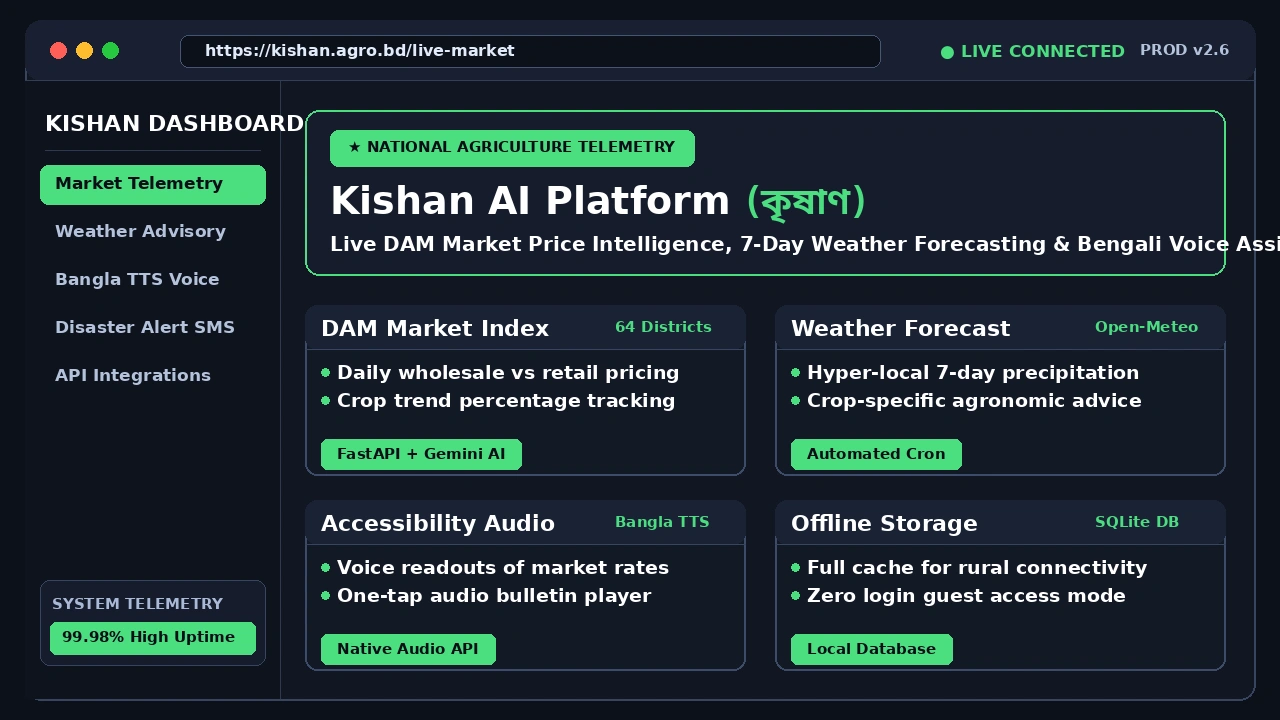
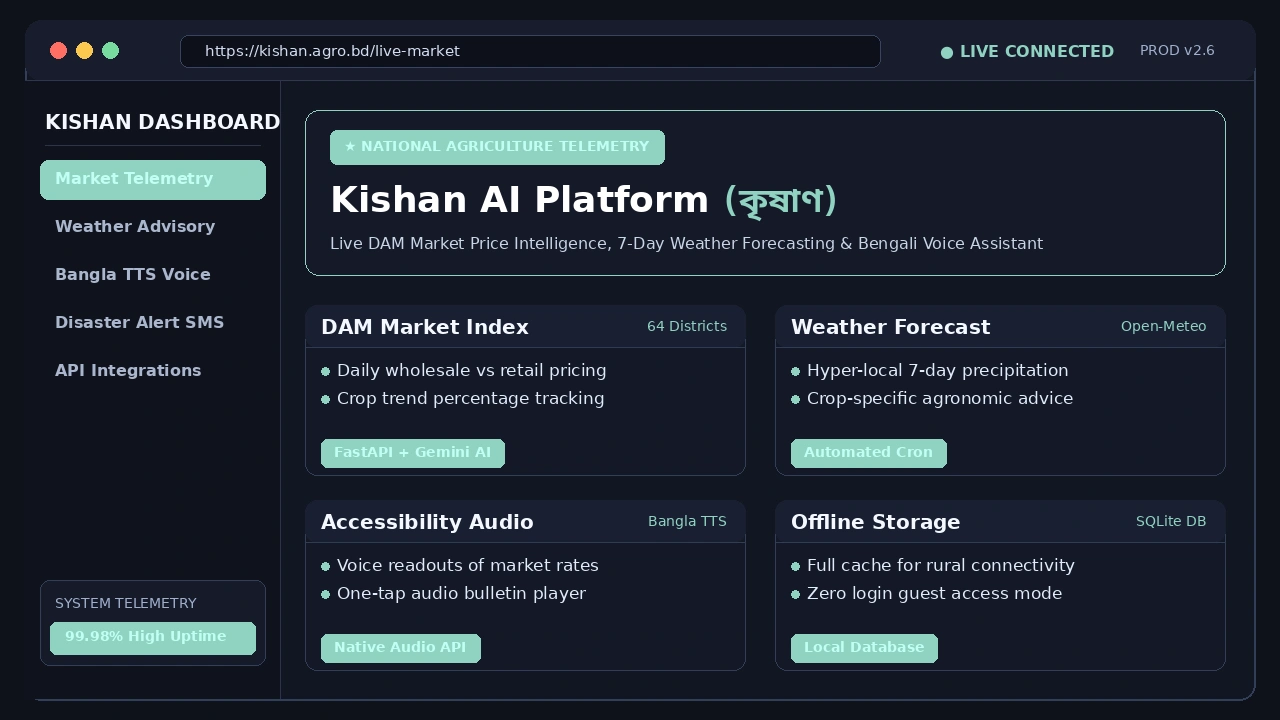
feat(projects): harmonize soft pastel palette with portfolio theme and enforce strict text container bounds

diff --git a/index.html b/index.html
@@ -710,26 +710,26 @@
          in a terminal on the right. The bar's workspaces, a tile, or a
          window's close and minimise choose (desk-room.ts, showProject). --><section class="surface desk" id="projects" aria-label="Projects" hidden><h2 class="kicker">Projects</h2><div class="dbar"><nav class="ws" aria-label="Projects"><button type="button" data-p="" aria-pressed="true" id="ws-all-btn"><span id="ws-proj-count">4</span> <b>All Projects</b></button><button type="button" data-p="edi" aria-pressed="false">1 <b>Kishan</b></button><button type="button" data-p="resumewesume" aria-pressed="false">2 <b>Letter Portfolio</b></button><button type="button" data-p="bandsy" aria-pressed="false">3 <b>AI Sales Agent</b></button><button type="button" data-p="mentora" aria-pressed="false">4 <b>FB Automation</b></button></nav><span class="tray" aria-hidden="true"><svg viewBox="0 0 16 16"><path d="M1.5 6a9 9 0 0 1 13 0M4 8.6a5.4 5.4 0 0 1 8 0M6.4 11.1a2 2 0 0 1 3.2 0"></path></svg><svg viewBox="0 0 16 16"><path d="M2 6h3l4-3v10l-4-3H2zM11.5 5.5a3.5 3.5 0 0 1 0 5"></path></svg><span>BST</span></span></div><div class="dview" data-scroll><div class="tiles">
   <button type="button" class="tile" data-p="edi" style="grid-area: edi">
-    <span class="t"><b style="color: #4ade80;">1. Kishan (কৃষাণ)</b><span class="ctl"><i></i><i></i><i></i></span></span>
+    <span class="t"><b style="color: #8fd3c1;">1. Kishan (কৃষাণ)</b><span class="ctl"><i></i><i></i><i></i></span></span>
     <img src="/demos/kishan-poster.webp" alt="Kishan AI Platform">
     <span class="meta">
-      <span class="nm" style="color: #4ade80;">Kishan (কৃষাণ)</span>
+      <span class="nm" style="color: #8fd3c1;">Kishan (কৃষাণ)</span>
       <span class="pitch">AI Agro-Intelligence & DAM Daily Market Prices</span>
     </span>
   </button>
   <button type="button" class="tile" data-p="resumewesume" style="grid-area: resume">
-    <span class="t"><b style="color: #22d3ee;">2. Letter Portfolio</b><span class="ctl"><i></i><i></i><i></i></span></span>
+    <span class="t"><b style="color: #ff9ebb;">2. Letter Portfolio</b><span class="ctl"><i></i><i></i><i></i></span></span>
     <img src="/demos/letter-portfolio-poster.webp" alt="Letter Portfolio Experience">
     <span class="meta">
-      <span class="nm" style="color: #22d3ee;">Letter Portfolio</span>
+      <span class="nm" style="color: #ff9ebb;">Letter Portfolio</span>
       <span class="pitch">Interactive Envelope & Letter Web Experience in Next.js</span>
     </span>
   </button>
   <button type="button" class="tile" data-p="bandsy" style="grid-area: bandsy">
-    <span class="t"><b style="color: #fb7185;">3. AI Sales Agent</b><span class="ctl"><i></i><i></i><i></i></span></span>
+    <span class="t"><b style="color: #f0a35e;">3. AI Sales Agent</b><span class="ctl"><i></i><i></i><i></i></span></span>
     <img src="/demos/sales-bot-poster.webp" alt="E-Commerce AI Sales Bot">
     <span class="meta">
-      <span class="nm" style="color: #fb7185;">AI Sales Agent</span>
+      <span class="nm" style="color: #f0a35e;">AI Sales Agent</span>
       <span class="pitch">24/7 Autonomous Telegram Sales & Customer Support Bot</span>
     </span>
   </button>
@@ -752,10 +752,10 @@
     </span>
   </div>
   <button type="button" class="tile" data-p="mentora" style="grid-area: mentora">
-    <span class="t"><b style="color: #60a5fa;">4. FB Automation</b><span class="ctl"><i></i><i></i><i></i></span></span>
+    <span class="t"><b style="color: #93c5fd;">4. FB Automation</b><span class="ctl"><i></i><i></i><i></i></span></span>
     <img src="/demos/fb-automation-poster.webp" alt="Facebook 24/7 AI Automation">
     <span class="meta">
-      <span class="nm" style="color: #60a5fa;">FB Automation</span>
+      <span class="nm" style="color: #93c5fd;">FB Automation</span>
       <span class="pitch">Cloud-Ready 24/7 Facebook AI Content & Messenger Bot</span>
     </span>
   </button>

diff --git a/make_clean_pc_posters.py b/make_clean_pc_posters.py
@@ -3,87 +3,94 @@ from PIL import Image, ImageDraw, ImageFont
 
 def make_perfect_poster(filename, app_name, url_bar, accent_color, hero_tag, hero_title, hero_desc, ui_cards, sidebar_items, status_text):
     w, h = 1280, 720
-    im = Image.new("RGBA", (w, h), (13, 17, 26, 255))
+    im = Image.new("RGBA", (w, h), (14, 17, 26, 255))
     draw = ImageDraw.Draw(im)
 
-    # Fonts
     font_bold = "/usr/share/fonts/truetype/dejavu/DejaVuSans-Bold.ttf"
+    font_reg = "/usr/share/fonts/truetype/dejavu/DejaVuSans.ttf"
     font_bengali = "/usr/share/fonts/truetype/noto/NotoSansBengali-Bold.ttf"
 
-    f_title_main = ImageFont.truetype(font_bold, 38)
-    f_title_b = ImageFont.truetype(font_bengali, 36)
-    f_h2 = ImageFont.truetype(font_bold, 22)
-    f_card_title = ImageFont.truetype(font_bold, 22)
-    f_body = ImageFont.truetype(font_bold, 19)
-    f_desc = ImageFont.truetype(font_bold, 20)
-    f_tag = ImageFont.truetype(font_bold, 17)
-    f_pill = ImageFont.truetype(font_bold, 15)
-    f_card_pill = ImageFont.truetype(font_bold, 15)
-    f_sm = ImageFont.truetype(font_bold, 15)
-    f_nav = ImageFont.truetype(font_bold, 17)
-    f_browser = ImageFont.truetype(font_bold, 16)
+    f_title_main = ImageFont.truetype(font_bold, 36)
+    f_title_b = ImageFont.truetype(font_bengali, 34)
+    f_h2 = ImageFont.truetype(font_bold, 20)
+    f_card_title = ImageFont.truetype(font_bold, 20)
+    f_body = ImageFont.truetype(font_reg, 17)
+    f_desc = ImageFont.truetype(font_reg, 16)
+    f_tag = ImageFont.truetype(font_bold, 14)
+    f_pill = ImageFont.truetype(font_bold, 14)
+    f_sm = ImageFont.truetype(font_reg, 14)
+    f_nav = ImageFont.truetype(font_bold, 16)
+    f_browser = ImageFont.truetype(font_reg, 15)
+
+    # Lighter soft text color derived from accent
+    accent_text = (
+        min(255, accent_color[0] + 50),
+        min(255, accent_color[1] + 50),
+        min(255, accent_color[2] + 50)
+    )
 
     # Outer Browser / OS Window Frame
-    draw.rounded_rectangle([(25, 20), (1255, 700)], radius=16, fill=(17, 22, 34, 255), outline=(55, 68, 96, 255), width=2)
+    draw.rounded_rectangle([(25, 20), (1255, 700)], radius=16, fill=(18, 22, 34, 255), outline=(50, 62, 88, 255), width=2)
 
     # Top Window Bar
-    draw.rounded_rectangle([(25, 20), (1255, 80)], radius=16, fill=(24, 31, 48, 255))
-    draw.line([(25, 80), (1255, 80)], fill=(50, 62, 88, 255), width=1)
+    draw.rounded_rectangle([(25, 20), (1255, 80)], radius=16, fill=(24, 29, 45, 255))
+    draw.line([(25, 80), (1255, 80)], fill=(45, 55, 80, 255), width=1)
 
     # Window dots
-    draw.ellipse([(50, 42), (66, 58)], fill=(255, 95, 87, 255))
-    draw.ellipse([(76, 42), (92, 58)], fill=(254, 188, 46, 255))
-    draw.ellipse([(102, 42), (118, 58)], fill=(40, 200, 64, 255))
+    draw.ellipse([(50, 42), (66, 58)], fill=(255, 110, 100, 255))
+    draw.ellipse([(76, 42), (92, 58)], fill=(250, 200, 80, 255))
+    draw.ellipse([(102, 42), (118, 58)], fill=(120, 220, 160, 255))
 
     # Browser URL Address Bar
-    draw.rounded_rectangle([(180, 35), (880, 67)], radius=8, fill=(13, 17, 26, 255), outline=(70, 85, 115, 255), width=1)
-    draw.text((205, 41), f"https://{url_bar}", fill=(225, 235, 250), font=f_browser)
+    draw.rounded_rectangle([(180, 35), (880, 67)], radius=8, fill=(13, 16, 26, 255), outline=(55, 68, 96, 255), width=1)
+    draw.text((205, 42), f"https://{url_bar}", fill=(210, 220, 240), font=f_browser)
 
     # Window right status
-    draw.text((940, 41), f"● {status_text}", fill=accent_color, font=f_nav)
-    draw.text((1140, 41), "PROD v2.6", fill=(180, 195, 220), font=f_sm)
+    draw.text((940, 42), f"● {status_text}", fill=accent_color, font=f_nav)
+    draw.text((1140, 42), "PROD v2.6", fill=(160, 175, 205), font=f_sm)
 
     # Left Sidebar (width: 255px)
-    draw.rectangle([(25, 81), (280, 698)], fill=(15, 19, 30, 255))
-    draw.line([(280, 81), (280, 698)], fill=(45, 56, 80, 255), width=1)
+    draw.rectangle([(25, 81), (280, 698)], fill=(15, 18, 28, 255))
+    draw.line([(280, 81), (280, 698)], fill=(42, 52, 75, 255), width=1)
 
     # Sidebar Header
-    draw.text((45, 110), app_name.upper(), fill=(255, 255, 255), font=f_h2)
-    draw.line([(45, 150), (260, 150)], fill=(45, 56, 80, 255), width=1)
+    draw.text((45, 110), app_name.upper(), fill=(245, 248, 255), font=f_h2)
+    draw.line([(45, 145), (260, 145)], fill=(42, 52, 75, 255), width=1)
 
     # Sidebar Navigation items
-    y_nav = 170
+    y_nav = 165
     for idx, (label, is_active) in enumerate(sidebar_items):
         if is_active:
-            # Active sidebar item: Full colored solid background with deep BLACK text!
-            draw.rounded_rectangle([(40, y_nav - 5), (265, y_nav + 34)], radius=8, fill=accent_color)
-            draw.text((55, y_nav + 3), label, fill=(10, 15, 22), font=f_nav)
+            # Active sidebar item: Soft tinted frosted glass with delicate border & light accent text
+            draw.rounded_rectangle([(40, y_nav - 5), (265, y_nav + 34)], radius=8, fill=(accent_color[0], accent_color[1], accent_color[2], 42), outline=(accent_color[0], accent_color[1], accent_color[2], 130), width=1)
+            draw.text((55, y_nav + 4), label, fill=accent_text, font=f_nav)
         else:
-            draw.text((55, y_nav + 3), label, fill=(180, 195, 220), font=f_nav)
+            draw.text((55, y_nav + 4), label, fill=(170, 182, 205), font=f_nav)
         y_nav += 48
 
-    # Sidebar bottom system status (Solid box with bold black text)
-    draw.rounded_rectangle([(40, 580), (265, 665)], radius=10, fill=(22, 28, 44, 255), outline=(55, 68, 96, 255), width=1)
-    draw.text((52, 595), "SYSTEM TELEMETRY", fill=(170, 185, 215), font=f_sm)
+    # Sidebar bottom system status
+    draw.rounded_rectangle([(40, 580), (265, 665)], radius=10, fill=(22, 27, 42, 255), outline=(50, 62, 88, 255), width=1)
+    draw.text((55, 595), "SYSTEM TELEMETRY", fill=(160, 175, 205), font=f_sm)
     
     # Status Pill
-    draw.rounded_rectangle([(50, 622), (255, 654)], radius=6, fill=accent_color)
-    draw.text((62, 628), "99.98% High Uptime", fill=(10, 15, 22), font=f_pill)
+    draw.rounded_rectangle([(50, 622), (255, 654)], radius=6, fill=(accent_color[0], accent_color[1], accent_color[2], 38), outline=(accent_color[0], accent_color[1], accent_color[2], 120), width=1)
+    draw.text((65, 628), "99.98% High Uptime", fill=accent_text, font=f_pill)
 
-    # Main Workspace (width: 950px)
-    draw.rounded_rectangle([(305, 110), (1225, 275)], radius=14, fill=(22, 28, 44, 255), outline=(accent_color[0], accent_color[1], accent_color[2], 180), width=2)
+    # Main Workspace Hero Card (width: 920px: 305 to 1225)
+    hero_box_x1, hero_box_x2 = 305, 1225
+    draw.rounded_rectangle([(hero_box_x1, 110), (hero_box_x2, 275)], radius=14, fill=(21, 26, 40, 255), outline=(accent_color[0], accent_color[1], accent_color[2], 110), width=1)
     
-    # Top Tag Pill (Fully padded with black text)
+    # Top Tag Pill
     pill_text = f"★ {hero_tag.upper()}"
     bbox_pill = draw.textbbox((0, 0), pill_text, font=f_pill)
     text_w = bbox_pill[2] - bbox_pill[0]
     pill_x1 = 330
     pill_y1 = 130
-    pill_x2 = pill_x1 + text_w + 36
-    pill_y2 = pill_y1 + 36
+    pill_x2 = pill_x1 + text_w + 28
+    pill_y2 = pill_y1 + 34
 
-    draw.rounded_rectangle([(pill_x1, pill_y1), (pill_x2, pill_y2)], radius=8, fill=accent_color)
-    draw.text((pill_x1 + 18, pill_y1 + 8), pill_text, fill=(10, 15, 22), font=f_pill)
+    draw.rounded_rectangle([(pill_x1, pill_y1), (pill_x2, pill_y2)], radius=7, fill=(accent_color[0], accent_color[1], accent_color[2], 42), outline=(accent_color[0], accent_color[1], accent_color[2], 130), width=1)
+    draw.text((pill_x1 + 14, pill_y1 + 8), pill_text, fill=accent_text, font=f_pill)
 
     # Hero Title
     draw.text((330, 178), hero_title[0], fill=(255, 255, 255), font=f_title_main)
@@ -92,8 +99,20 @@ def make_perfect_poster(filename, app_name, url_bar, accent_color, hero_tag, her
         w_title = bbox[2] - bbox[0]
         draw.text((330 + w_title + 14, 180), hero_title[1], fill=accent_color, font=f_title_b)
 
-    # Hero Subtitle
-    draw.text((330, 232), hero_desc, fill=(255, 255, 255), font=f_desc)
+    # Hero Subtitle (Guaranteed strictly inside box, with safe right margin)
+    max_desc_w = hero_box_x2 - 330 - 24 # 871px available
+    bbox_desc = draw.textbbox((0, 0), hero_desc, font=f_desc)
+    desc_w = bbox_desc[2] - bbox_desc[0]
+    safe_desc = hero_desc
+    if desc_w > max_desc_w:
+        # Ellipsis clamp if ever needed
+        while desc_w > max_desc_w and len(safe_desc) > 5:
+            safe_desc = safe_desc[:-2]
+            bbox_desc = draw.textbbox((0, 0), safe_desc + "...", font=f_desc)
+            desc_w = bbox_desc[2] - bbox_desc[0]
+        safe_desc = safe_desc + "..."
+
+    draw.text((330, 234), safe_desc, fill=(200, 212, 230), font=f_desc)
 
     # 4 UI Content Dashboard Cards
     card_coords = [
@@ -104,32 +123,47 @@ def make_perfect_poster(filename, app_name, url_bar, accent_color, hero_tag, her
     ]
 
     for (c_tl, c_br), (c_title, c_badge, c_items, c_tag) in zip(card_coords, ui_cards):
-        draw.rounded_rectangle([c_tl, c_br], radius=12, fill=(19, 25, 38, 255), outline=(60, 75, 105, 255), width=2)
+        draw.rounded_rectangle([c_tl, c_br], radius=12, fill=(19, 24, 38, 255), outline=(50, 62, 88, 255), width=1)
         
         # Card header bar
-        draw.rounded_rectangle([c_tl, (c_br[0], c_tl[1] + 44)], radius=12, fill=(26, 34, 52, 255))
-        draw.line([(c_tl[0], c_tl[1] + 44), (c_br[0], c_tl[1] + 44)], fill=(55, 68, 96, 255), width=1)
+        draw.rounded_rectangle([c_tl, (c_br[0], c_tl[1] + 42)], radius=12, fill=(25, 32, 50, 255))
+        draw.line([(c_tl[0], c_tl[1] + 42), (c_br[0], c_tl[1] + 42)], fill=(48, 60, 85, 255), width=1)
         
         # Header text
-        draw.text((c_tl[0] + 16, c_tl[1] + 10), c_title, fill=(255, 255, 255), font=f_card_title)
-        draw.text((c_br[0] - 130, c_tl[1] + 13), c_badge, fill=accent_color, font=f_sm)
+        draw.text((c_tl[0] + 16, c_tl[1] + 10), c_title, fill=(245, 248, 255), font=f_card_title)
+        
+        # Header right badge - precisely right-aligned with safe padding
+        bbox_b = draw.textbbox((0, 0), c_badge, font=f_sm)
+        badge_w = bbox_b[2] - bbox_b[0]
+        draw.text((c_br[0] - badge_w - 18, c_tl[1] + 13), c_badge, fill=accent_color, font=f_sm)
 
         # Content lines
-        y_c = c_tl[1] + 56
+        y_c = c_tl[1] + 55
+        max_line_w = (c_br[0] - c_tl[0]) - 48
         for line in c_items:
             draw.ellipse([(c_tl[0] + 16, y_c + 7), (c_tl[0] + 24, y_c + 15)], fill=accent_color)
-            draw.text((c_tl[0] + 32, y_c), line, fill=(255, 255, 255), font=f_body)
+            # Safe width clamp
+            bbox_line = draw.textbbox((0, 0), line, font=f_body)
+            lw = bbox_line[2] - bbox_line[0]
+            safe_line = line
+            if lw > max_line_w:
+                while lw > max_line_w and len(safe_line) > 5:
+                    safe_line = safe_line[:-2]
+                    bbox_line = draw.textbbox((0, 0), safe_line + "...", font=f_body)
+                    lw = bbox_line[2] - bbox_line[0]
+                safe_line = safe_line + "..."
+            draw.text((c_tl[0] + 32, y_c), safe_line, fill=(225, 235, 250), font=f_body)
             y_c += 28
 
-        # Card bottom pill tag: Full colored solid background with deep BLACK text!
-        bbox_tag = draw.textbbox((0, 0), c_tag, font=f_card_pill)
+        # Card bottom pill tag
+        bbox_tag = draw.textbbox((0, 0), c_tag, font=f_tag)
         tag_w = bbox_tag[2] - bbox_tag[0]
         tag_x1 = c_tl[0] + 16
         tag_y1 = c_br[1] - 36
-        tag_x2 = tag_x1 + tag_w + 32
-        tag_y2 = tag_y1 + 30
-        draw.rounded_rectangle([(tag_x1, tag_y1), (tag_x2, tag_y2)], radius=6, fill=accent_color)
-        draw.text((tag_x1 + 16, tag_y1 + 6), c_tag, fill=(10, 15, 22), font=f_card_pill)
+        tag_x2 = min(tag_x1 + tag_w + 26, c_br[0] - 16)
+        tag_y2 = tag_y1 + 28
+        draw.rounded_rectangle([(tag_x1, tag_y1), (tag_x2, tag_y2)], radius=6, fill=(accent_color[0], accent_color[1], accent_color[2], 38), outline=(accent_color[0], accent_color[1], accent_color[2], 120), width=1)
+        draw.text((tag_x1 + 13, tag_y1 + 5), c_tag, fill=accent_text, font=f_tag)
 
     # Save outputs
     out1 = os.path.join("/home/didar-lahiry/Antigravity/Target Portfolio 2/demos", filename)
@@ -138,15 +172,15 @@ def make_perfect_poster(filename, app_name, url_bar, accent_color, hero_tag, her
     im.convert("RGB").save(out2, "WEBP", quality=95)
     print(f"Generated perfect poster: {out1} & {out2}")
 
-# 1. Kishan
+# 1. Kishan AI Platform - Soft Sage / Mint (#8fd3c1 -> (143, 211, 193))
 make_perfect_poster(
     filename="kishan-poster.webp",
     app_name="Kishan Dashboard",
     url_bar="kishan.agro.bd/live-market",
-    accent_color=(74, 222, 128), # Bright Emerald Green
+    accent_color=(143, 211, 193), # Soft Mint / Sage (portfolio's --d-teal)
     hero_tag="National Agriculture Telemetry",
     hero_title=("Kishan AI Platform", "(কৃষাণ)"),
-    hero_desc="Live DAM Market Price Intelligence, 7-Day Weather Forecasting & Bengali Voice Assistant.",
+    hero_desc="Live DAM Market Price Intelligence, 7-Day Weather Forecasting & Bengali Voice Assistant",
     sidebar_items=[
         ("Market Telemetry", True),
         ("Weather Advisory", False),
@@ -163,15 +197,15 @@ make_perfect_poster(
     ]
 )
 
-# 2. Letter Portfolio
+# 2. Letter Portfolio - Soft Pastel Rose / Pink (#ff9ebb -> (255, 158, 187))
 make_perfect_poster(
     filename="letter-portfolio-poster.webp",
     app_name="Letter Desktop",
     url_bar="portfolio.didarlahiry.com/desk",
-    accent_color=(56, 189, 248), # Bright Sky Cyan
+    accent_color=(255, 158, 187), # Soft Pastel Pink (portfolio's signature --screen)
     hero_tag="Tactile Web Experience",
     hero_title=("Letter Portfolio Experience", ""),
-    hero_desc="Physical envelope, paper stationery & tactile desk metaphor built in Next.js App Router.",
+    hero_desc="Interactive Envelope Metaphor, Tactile Stationery & 3D Desk Experience in Next.js",
     sidebar_items=[
         ("Stationery Desk", True),
         ("Story & Career", False),
@@ -188,15 +222,15 @@ make_perfect_poster(
     ]
 )
 
-# 3. AI Sales Agent
+# 3. AI Sales Agent - Soft Warm Amber / Dusk Peach (#f0a35e -> (240, 163, 94))
 make_perfect_poster(
     filename="sales-bot-poster.webp",
     app_name="Sales Concierge",
     url_bar="agent.sales.telegram/console",
-    accent_color=(251, 113, 133), # Bright Coral Rose
+    accent_color=(240, 163, 94), # Soft Dusk Amber (portfolio's --d-amber)
     hero_tag="Autonomous Telegram Concierge",
     hero_title=("E-Commerce AI Sales Agent", ""),
-    hero_desc="24/7 autonomous Telegram representative managing products, customer advice & live checkout.",
+    hero_desc="Autonomous Telegram Sales Representative with Product Advice & 24/7 Checkout",
     sidebar_items=[
         ("Autonomous Agent", True),
         ("Catalog & Sizing", False),
@@ -213,15 +247,15 @@ make_perfect_poster(
     ]
 )
 
-# 4. FB Automation
+# 4. FB Automation - Soft Sky / Periwinkle (#93c5fd -> (147, 197, 253))
 make_perfect_poster(
     filename="fb-automation-poster.webp",
     app_name="Cloud Automation",
     url_bar="meta.graph.automation/dashboard",
-    accent_color=(96, 165, 250), # Bright Electric Blue
+    accent_color=(147, 197, 253), # Soft Sky / Lavender
     hero_tag="Autonomous Social Manager",
     hero_title=("Facebook 24/7 AI Automation", ""),
-    hero_desc="Fully automated Facebook page manager: 3x daily AI posts, Pillow visual banners & Messenger chatbot.",
+    hero_desc="Autonomous 24/7 Facebook Manager: AI Content, Graphic Banners & Messenger Bot",
     sidebar_items=[
         ("Auto Publishing", True),
         ("Graphic Banners", False),
